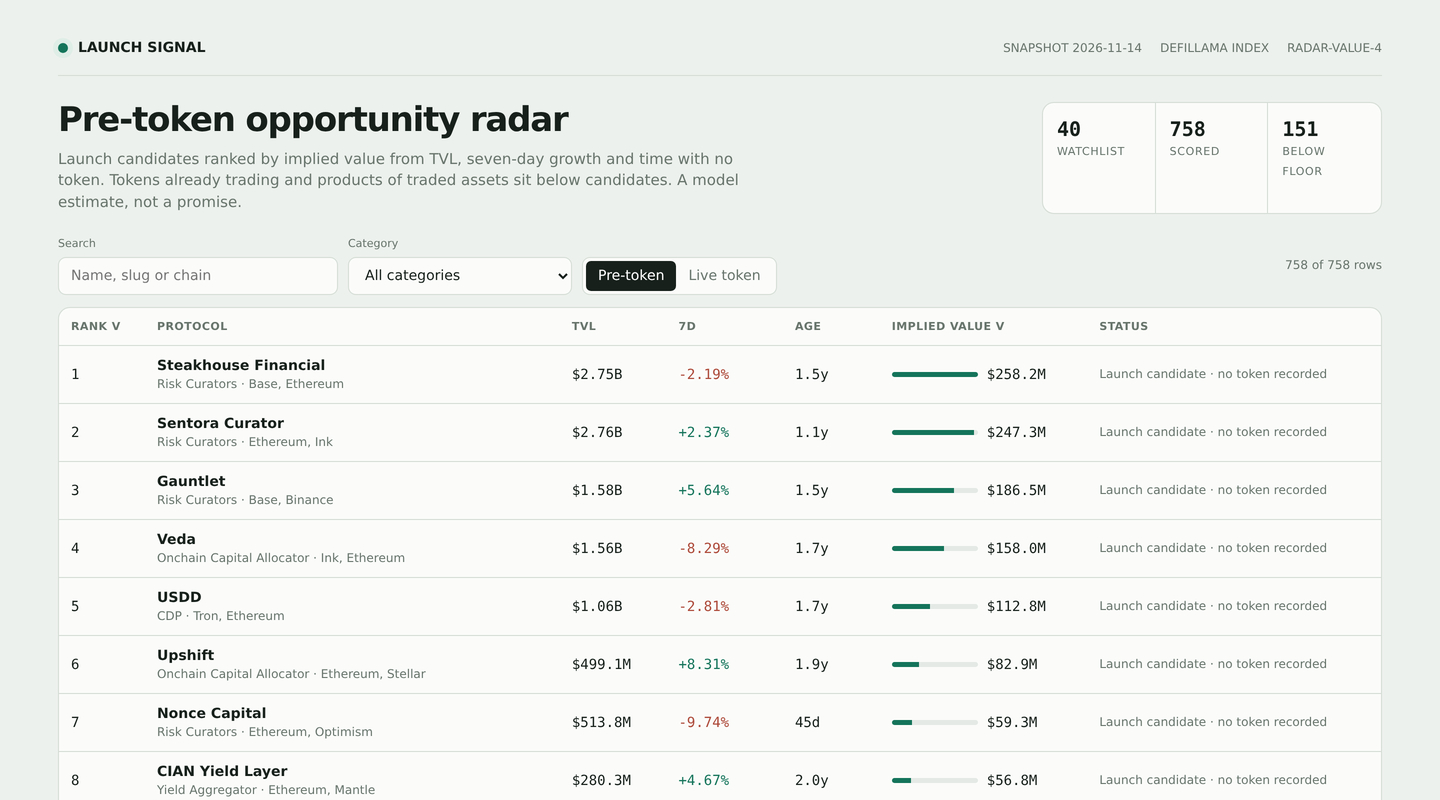
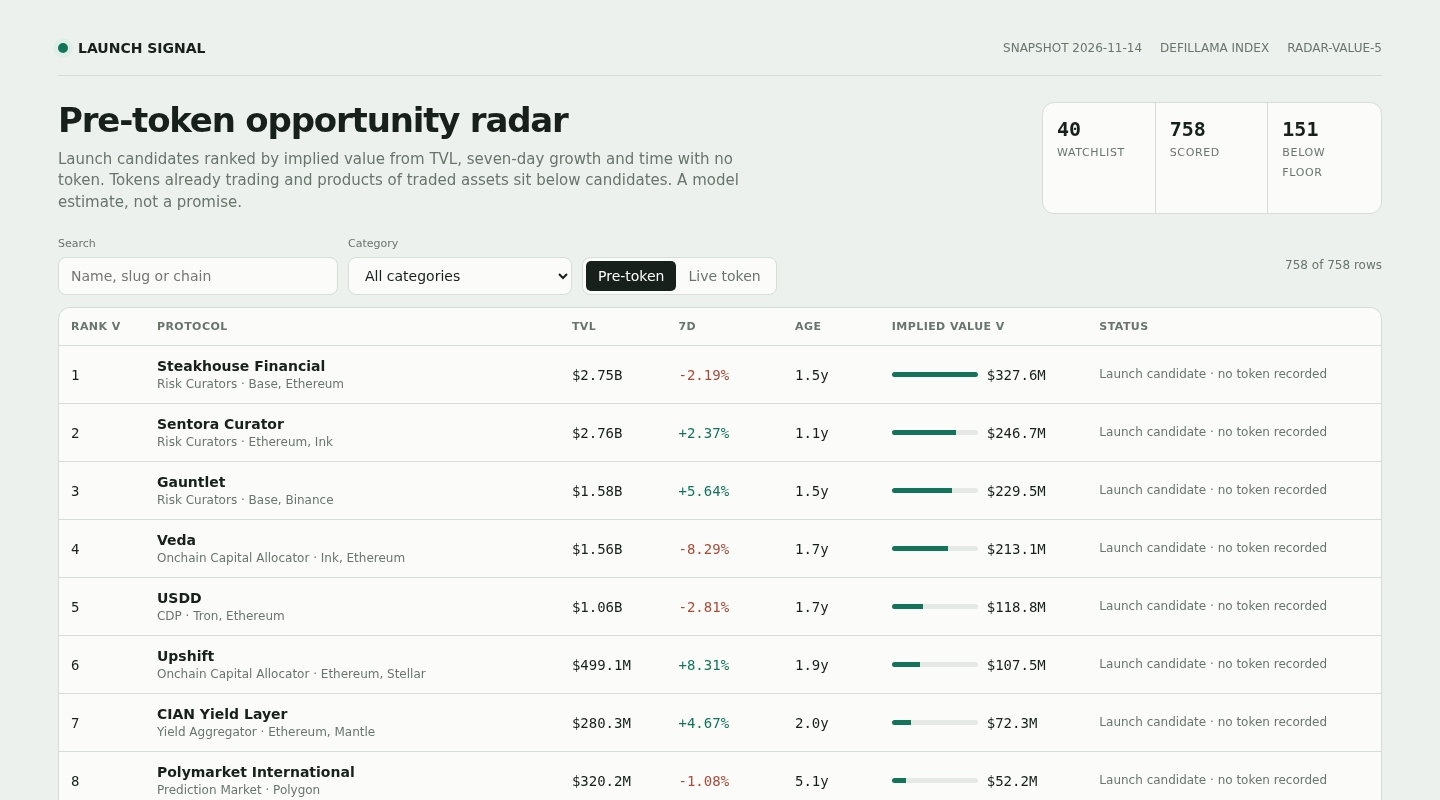
Sharpen implied-value model against judge ground truth

diff --git a/lib/model.ts b/lib/model.ts
@@ -15,11 +15,11 @@ export interface ModelConstants {
 }
 export const MODEL: ModelConstants = {
   tvl_weight: 0.75, value_scale: 20, growth_floor: -50, growth_cap: 100,
-  growth_weight: 1.2, age_floor: 0.75, age_cap_days: 1095, tenure_bonus: 0.2,
-  category_weight: 0.08, chain_weight: 0.025,
+  growth_weight: 0.8, age_floor: 0.5, age_cap_days: 1095, tenure_bonus: 0.1,
+  category_weight: 0.08, chain_weight: 0.1,
   live_scale: 0.2, live_residual_scale: 0.005, pre_residual_scale: 0.03,
 };
-export const MODEL_VERSION = 'radar-value-4';
+export const MODEL_VERSION = 'radar-value-5';
 const DAY_MS = 86400000;
 const VERSIONED = /\s(v?\d+(?:\.\d+)?|V\d+(?:\.\d+)?)$/;
 const DERIVED = /\b(wrapped|staked|staking|bridged)\b/i;
